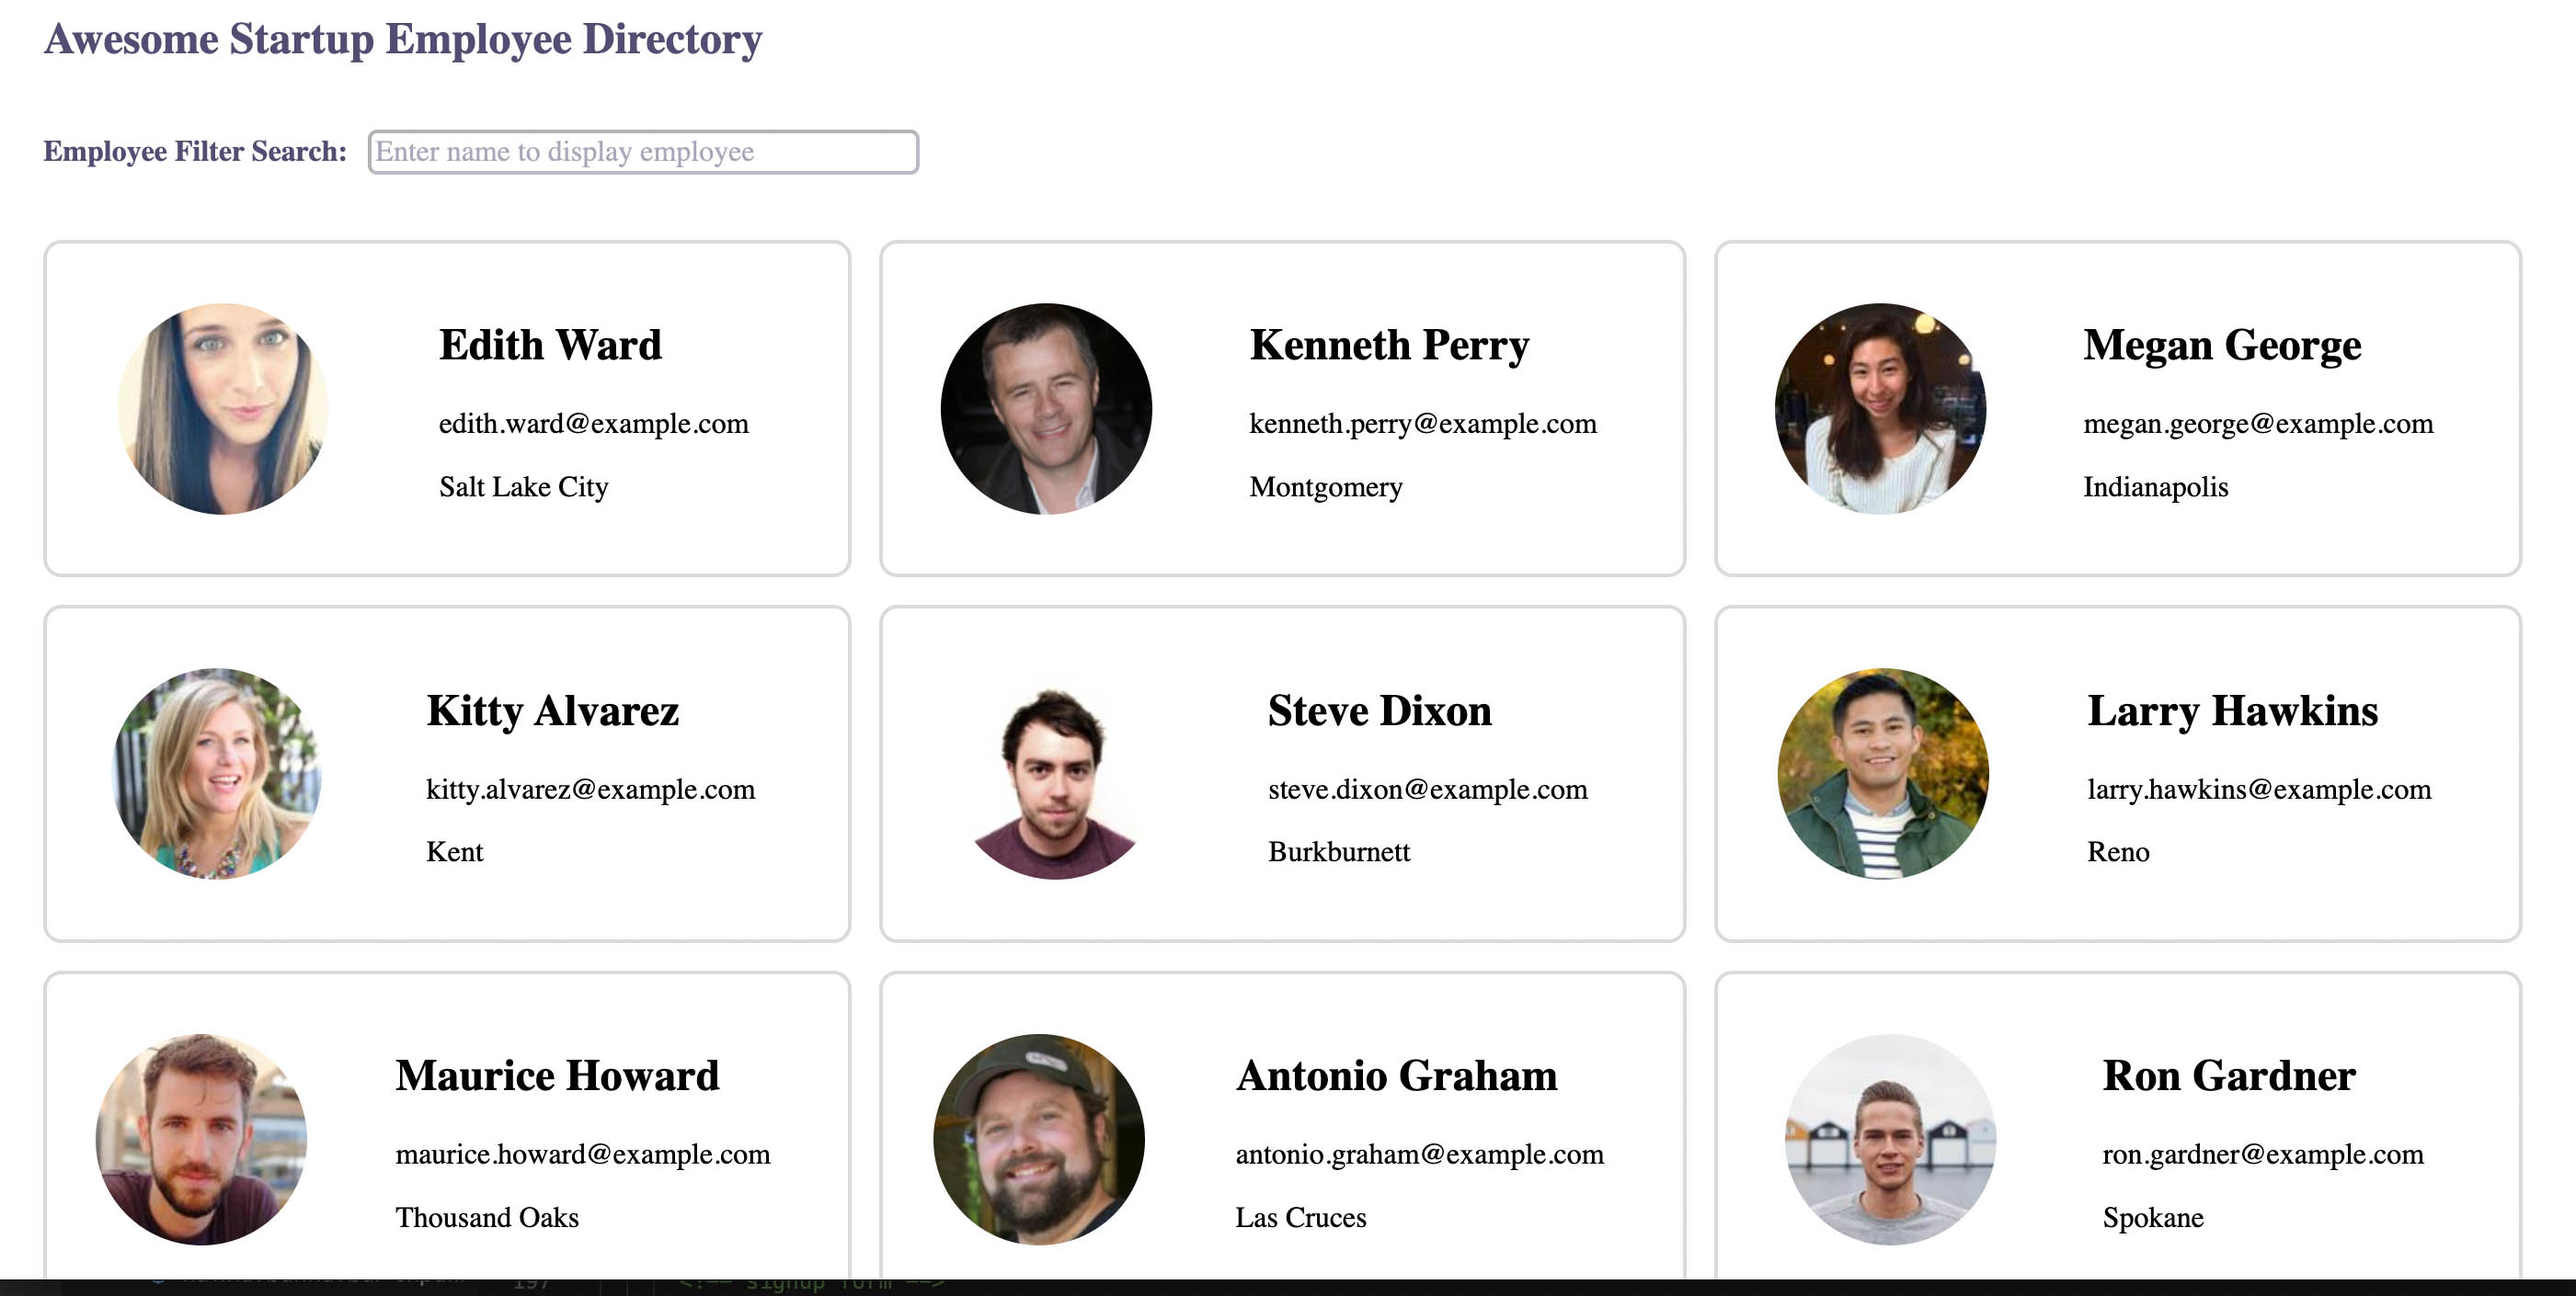
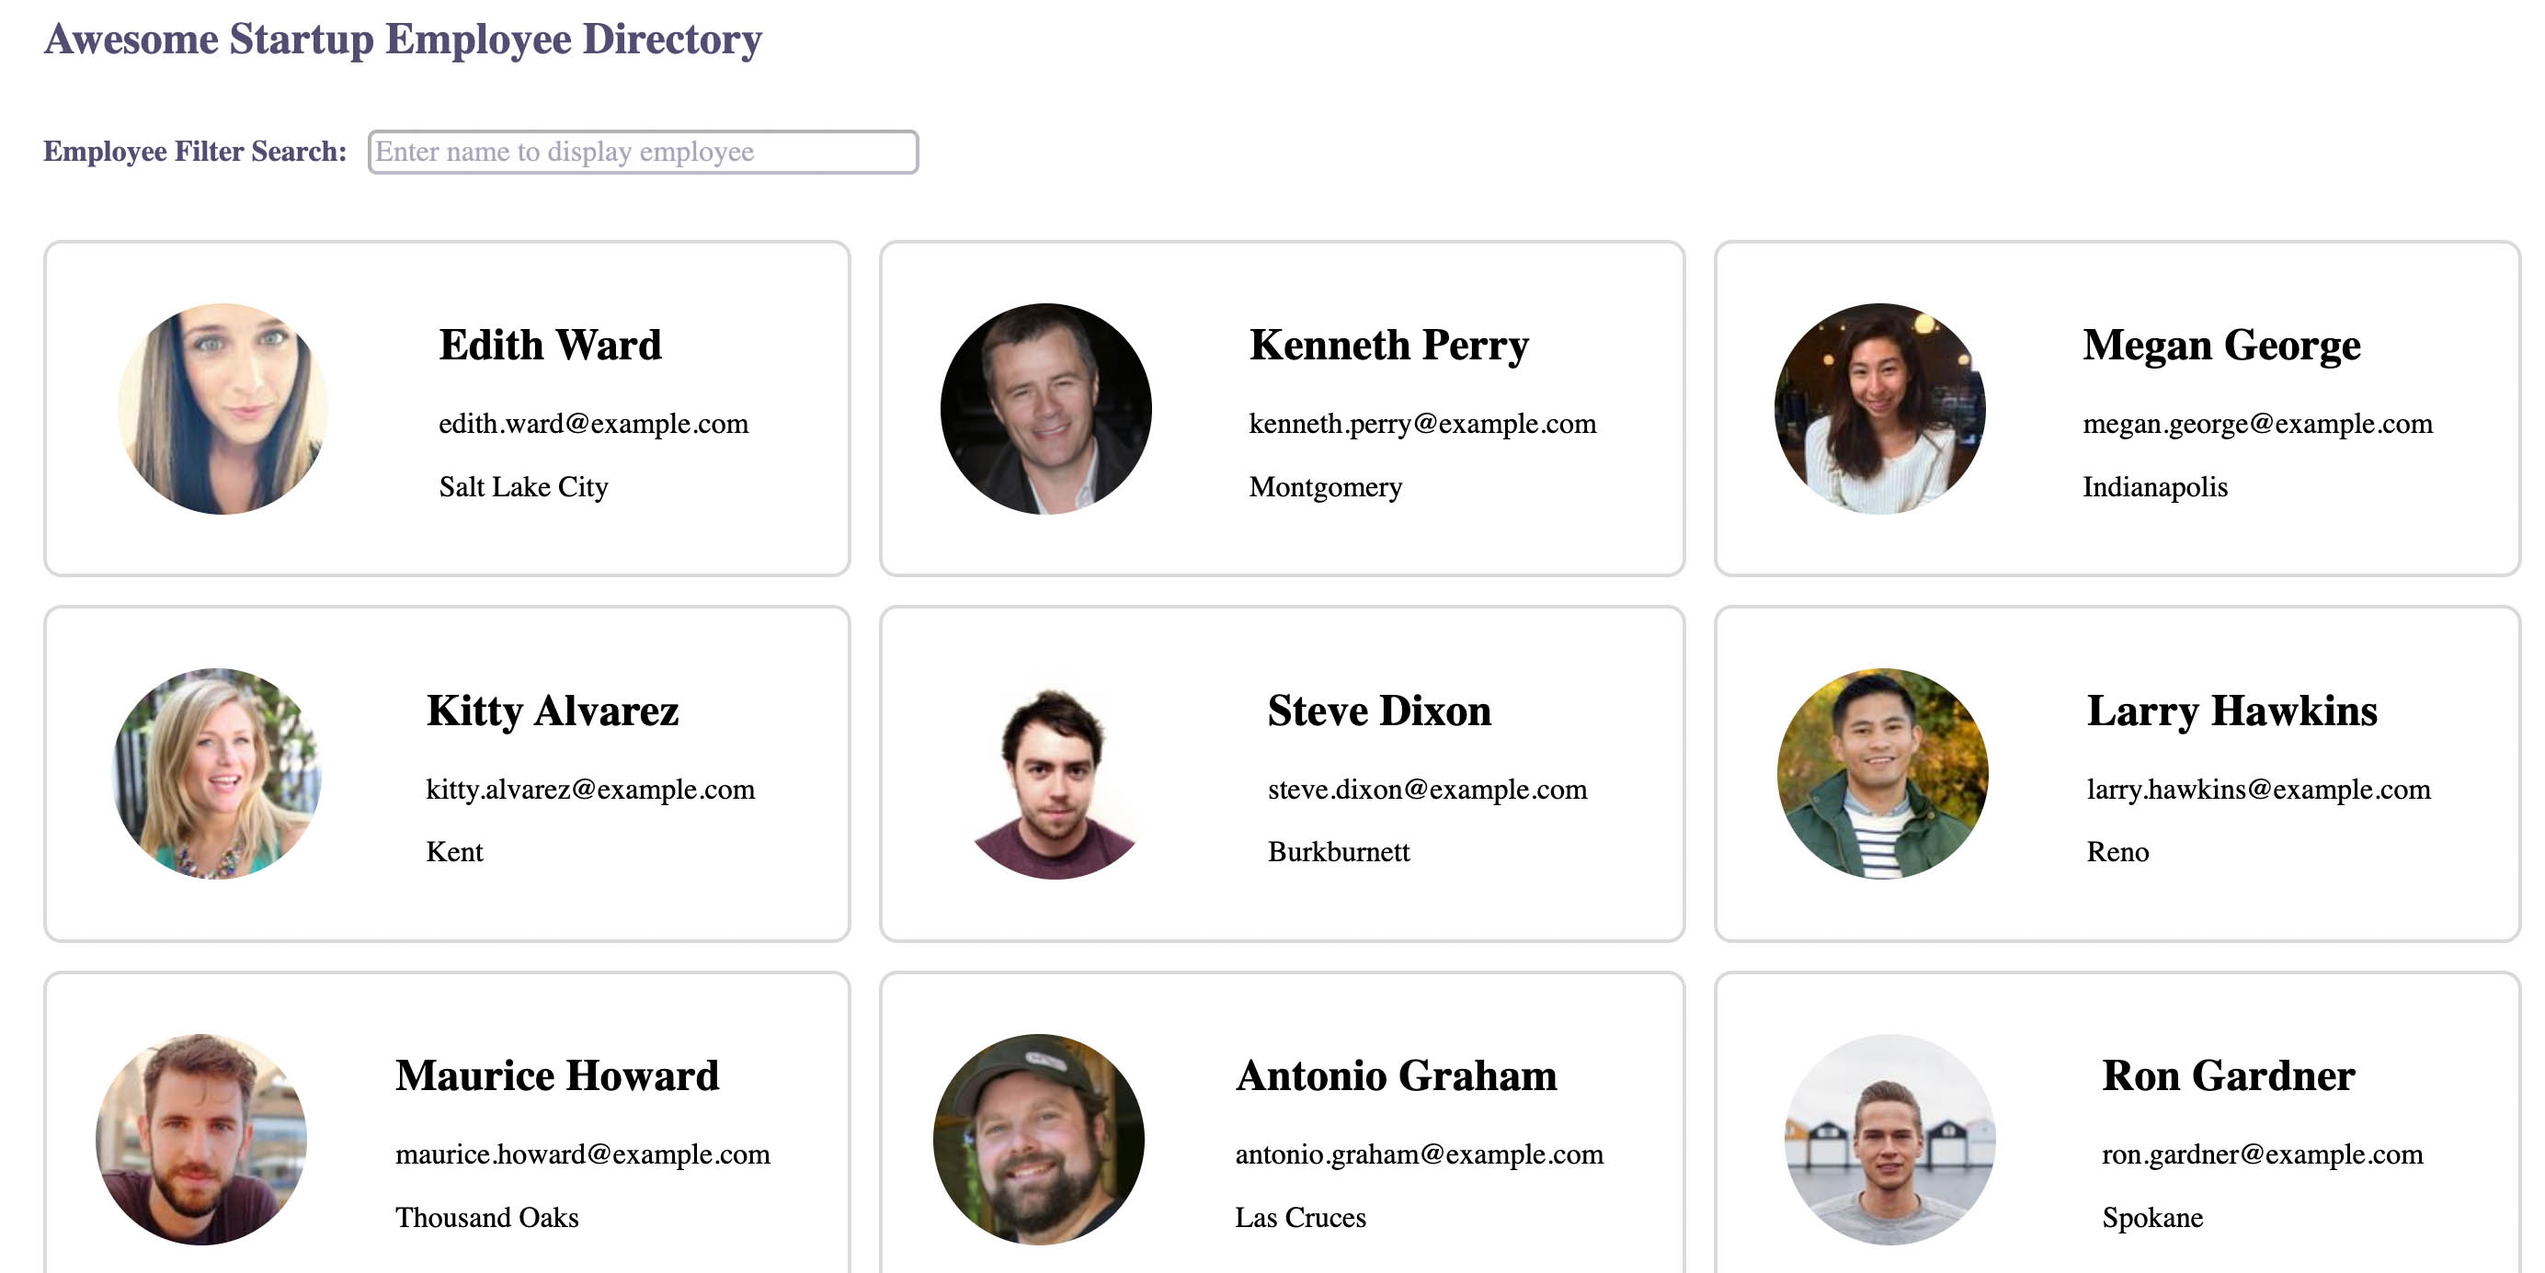
fit images inside card container
need to resize images

diff --git a/index.html b/index.html
@@ -10,11 +10,15 @@
       integrity="sha384-gH2yIJqKdNHPEq0n4Mqa/HGKIhSkIHeL5AyhkYV8i59U5AR6csBvApHHNl/vI1Bx"
       crossorigin="anonymous"
     />
-    <link rel="stylesheet" href="css/style.css"/>
+    <link rel="stylesheet" href="css/style.css" />
   </head>
 
-  <body id="home" data-bs-spy="scroll" data-bs-target=".navbar" rootMargin="100">
-
+  <body
+    id="home"
+    data-bs-spy="scroll"
+    data-bs-target=".navbar"
+    rootMargin="100"
+  >
     <!-- navbar -->
     <nav class="navbar navbar-expand-lg navbar-dark bg-primary fixed-top">
       <div class="container">
@@ -49,14 +53,14 @@
       </p>
       <!--Contact Button-->
       <div class="d-flex justify-content-center mt-4">
-          <button
-            type="button"
-            class="btn btn-primary btn-lg"
-            data-bs-toggle="modal"
-            data-bs-target="#contact"
-          >
-            Contact Me
-          </button>
+        <button
+          type="button"
+          class="btn btn-primary btn-lg"
+          data-bs-toggle="modal"
+          data-bs-target="#contact"
+        >
+          Contact Me
+        </button>
         <!--/Contact Button-->
       </div>
     </div>
@@ -65,7 +69,6 @@
     <!-- about -->
     <div class="container py-4 my-4">
       <div class="row">
-
         <div class="col-lg order-lg-2">
           <h3 id="about" class="mb-4">About me</h3>
           <p>From Mississauga Ontario.</p>
@@ -78,7 +81,7 @@
         </div>
 
         <div class="col-lg order-lg-1">
-          <h3 class="mb-4"> My background in Web Development</h3>
+          <h3 class="mb-4">My background in Web Development</h3>
           <p>Paragraph outlining my web background</p>
           <p>Paragraph outlining my web background</p>
           <p>Paragraph outlining my web background</p>
@@ -114,11 +117,21 @@
       <h1 id="myProjects" class="display-4 text-center my-5 text-muted">
         My Projects
       </h1>
-      <h5 class="display-4 projectHeading">Click on the picture to go to the webpage</h5>
+      <h5 class="display-4 projectHeading">
+        Click on the picture to go to the webpage
+      </h5>
+
       <div class="card-group">
         <div class="card">
-          <a href="https://mikeovas.github.io/my-animated-picture-page/" target=”_blank”>
-            <img src="img/animated_picture_page.jpg" class="card-img-top rounded-3" alt="animated picture page"/>
+          <a
+            href="https://mikeovas.github.io/my-animated-picture-page/"
+            target="”_blank”"
+          >
+            <img
+              src="img/animated_picture_page.jpg"
+              class="card-img-top rounded-3 web-image"
+              alt="animated picture page"
+            />
           </a>
           <div class="card-body">
             <h4 class="card-title">My Animated Picture Page</h4>
@@ -130,8 +143,15 @@
         </div>
 
         <div class="card">
-          <a href="https://mikeovas.github.io/TechDegree-Project-3/" target=”_blank”>
-            <img src="img/form_control_page.jpg" class="card-img-top rounded-3" alt="form control page" />
+          <a
+            href="https://mikeovas.github.io/TechDegree-Project-3/"
+            target="”_blank”"
+          >
+            <img
+              src="img/form_control_page.jpg"
+              class="card-img-top rounded-3 web-image"
+              alt="form control page"
+            />
           </a>
           <div class="card-body">
             <h4 class="card-title">Project-2</h4>
@@ -142,8 +162,15 @@
         </div>
 
         <div class="card">
-          <a href="https://mikeovas.github.io/TechDegree-Project-6/" target=”_blank”>
-            <img src="img/wheel_of_success_game.jpg" class="card-img-top rounded-3" alt="wheel of success game" />
+          <a
+            href="https://mikeovas.github.io/TechDegree-Project-6/"
+            target="”_blank”"
+          >
+            <img
+              src="img/wheel_of_success_game.jpg"
+              class="card-img-top rounded-3 web-image"
+              alt="wheel of success game"
+            />
           </a>
           <div class="card-body">
             <h4 class="card-title">Project-3</h4>
@@ -157,8 +184,15 @@
 
       <div class="card-group">
         <div class="card">
-          <a href="https://mikeovas.github.io/TechDegree-Project-8/" target=”_blank”>
-            <img src="img/employee_directory_page.jpg" class="card-img-top rounded-3" alt="employee directory page" />
+          <a
+            href="https://mikeovas.github.io/TechDegree-Project-8/"
+            target="”_blank”"
+          >
+            <img
+              src="img/employee_directory_page.jpg"
+              class="card-img-top rounded-3 web-image"
+              alt="employee directory page"
+            />
           </a>
           <div class="card-body">
             <h4 class="card-title">Project 4</h4>
@@ -170,10 +204,16 @@
         </div>
 
         <div class="card">
-          <a href="https://mikeovas.github.io/TechDegree-Project-7/" target=”_blank”>
-            <img src="img/webapp_page.jpg" class="card-img-top rounded-3" alt="web app page" />
+          <a
+            href="https://mikeovas.github.io/TechDegree-Project-7/"
+            target="”_blank”"
+          >
+            <img
+              src="img/webapp_page.jpg"
+              class="card-img-top rounded-3 web-image"
+              alt="web app page"
+            />
           </a>
-
           <div class="card-body">
             <h4 class="card-title">Project 5</h4>
             <p class="card-text">
@@ -183,8 +223,15 @@
         </div>
 
         <div class="card">
-          <a href="https://mikeovas.github.io/TechDegree-Project-5/" target=”_blank”>
-            <img src="img/picture_search_page.jpg" class="card-img-top rounded-3" alt="picture search page" />
+          <a
+            href="https://mikeovas.github.io/TechDegree-Project-5/"
+            target="”_blank”"
+          >
+            <img
+              src="img/picture_search_page.jpg"
+              class="card-img-top rounded-3 web-image"
+              alt="picture search page"
+            />
           </a>
           <div class="card-body">
             <h4 class="card-title">Picture Seach</h4>
@@ -195,59 +242,49 @@
           </div>
         </div>
       </div>
+
       <!-- /My Projects -->
 
-      <!-- Contact Form -->
-      <hr />
-        <div class="col-md col-xl-5 offset-xl-2">
-          <p><strong>Misc Info</strong></p>
-          <div class="input-group">
-            <input type="text" class="form-control" placeholder="Email" />
-            <span class="input-group-btn">
-              <button class="btn btn-primary" type="button">Contact Email</button>
-            </span>
+      <!-- footer -->
+      <footer>
+        <div class="row">
+          <div class="col-md-7">
+            <ul class="nav">
+              <li class="nav-item">
+                <a class="nav-link" aria-current="page" href="#"
+                  >Social Media Link</a
+                >
+              </li>
+              <li class="nav-item">
+                <a class="nav-link" href="#">Social Media Link</a>
+              </li>
+              <li class="nav-item">
+                <div class="btn-group dropup">
+                  <button type="button" class="btn btn-outline-secondary">
+                    Social Media Link
+                  </button>
+                  <button
+                    type="button"
+                    class="btn btn-outline-secondary dropdown-toggle dropdown-toggle-split"
+                    data-bs-toggle="dropdown"
+                    aria-expanded="false"
+                  >
+                    <span class="visually-hidden">Toggle Dropdown</span>
+                  </button>
+                  <ul class="dropdown-menu">
+                    <li><a class="dropdown-item" href="#">Instagram</a></li>
+                    <li><a class="dropdown-item" href="#">Twitter</a></li>
+                    <li><a class="dropdown-item" href="#">Misc1</a></li>
+                  </ul>
+                </div>
+              </li>
+            </ul>
+          </div>
+          <div class="col-md text-md-right">
+            <small>&copy; 2022 Portfolio &amp; Mike Ovas</small>
           </div>
         </div>
-      </div>
-      <hr />
-      <!-- /Contact Form -->
-
-      <!-- footer -->
-      <div class="row">
-        <div class="col-md-7">
-          <ul class="nav">
-            <li class="nav-item">
-              <a class="nav-link" aria-current="page" href="#">Social Media Link</a>
-            </li>
-            <li class="nav-item">
-              <a class="nav-link" href="#">Social Media Link</a>
-            </li>
-            <li class="nav-item">
-              <div class="btn-group dropup">
-                <button type="button" class="btn btn-outline-secondary">
-                  Social Media Link
-                </button>
-                <button
-                  type="button"
-                  class="btn btn-outline-secondary dropdown-toggle dropdown-toggle-split"
-                  data-bs-toggle="dropdown"
-                  aria-expanded="false"
-                >
-                  <span class="visually-hidden">Toggle Dropdown</span>
-                </button>
-                <ul class="dropdown-menu">
-                  <li><a class="dropdown-item" href="#">Instagram</a></li>
-                  <li><a class="dropdown-item" href="#">Twitter</a></li>
-                  <li><a class="dropdown-item" href="#">Misc1</a></li>
-                </ul>  
-              </div>
-            </li>
-          </ul>
-        </div>
-        <div class="col-md text-md-right">
-          <small>&copy; 2022 Portfolio &amp; Mike Ovas</small>
-        </div>
-      </div>
+      </footer>
       <!-- /footer -->
     </div>
     <!--/.container -->
@@ -279,12 +316,33 @@
           </div>
           <div class="modal-body">
             <div class="mb-3">
-              <label for="exampleFormControlInput1" class="form-label">Your Name</label>
-              <input class="form-control" type="text" placeholder="Your Name" aria-label="Your Name">
-              <label for="exampleFormControlInput1" class="form-label mt-4">Your Phone Number</label>
-              <input class="form-control" type="text" placeholder="(123)456-7890" aria-label="Your Phone Number">
-              <label for="exampleFormControlInput1" class="form-label mt-4">Email address</label>
-              <input type="email" class="form-control" id="exampleFormControlInput1" placeholder="name@example.com">
+              <label for="exampleFormControlInput1" class="form-label"
+                >Your Name</label
+              >
+              <input
+                class="form-control"
+                type="text"
+                placeholder="Your Name"
+                aria-label="Your Name"
+              />
+              <label for="exampleFormControlInput1" class="form-label mt-4"
+                >Your Phone Number</label
+              >
+              <input
+                class="form-control"
+                type="text"
+                placeholder="(123)456-7890"
+                aria-label="Your Phone Number"
+              />
+              <label for="exampleFormControlInput1" class="form-label mt-4"
+                >Email address</label
+              >
+              <input
+                type="email"
+                class="form-control"
+                id="exampleFormControlInput1"
+                placeholder="name@example.com"
+              />
             </div>
           </div>
           <div class="modal-footer">

diff --git a/css/style.css b/css/style.css
@@ -6,13 +6,19 @@
     font-size: small;
 }
 
+
 .card-text {
    text-align: center;
 }
 
-img {
+/* web-image {
     height: 275px;
     width: 100px;
-    border: 1px solid navy;
     margin: 5px;
+} */
+img {
+    border: 2px solid navy;
+}
+footer {
+    margin-top: 5rem;
 }
